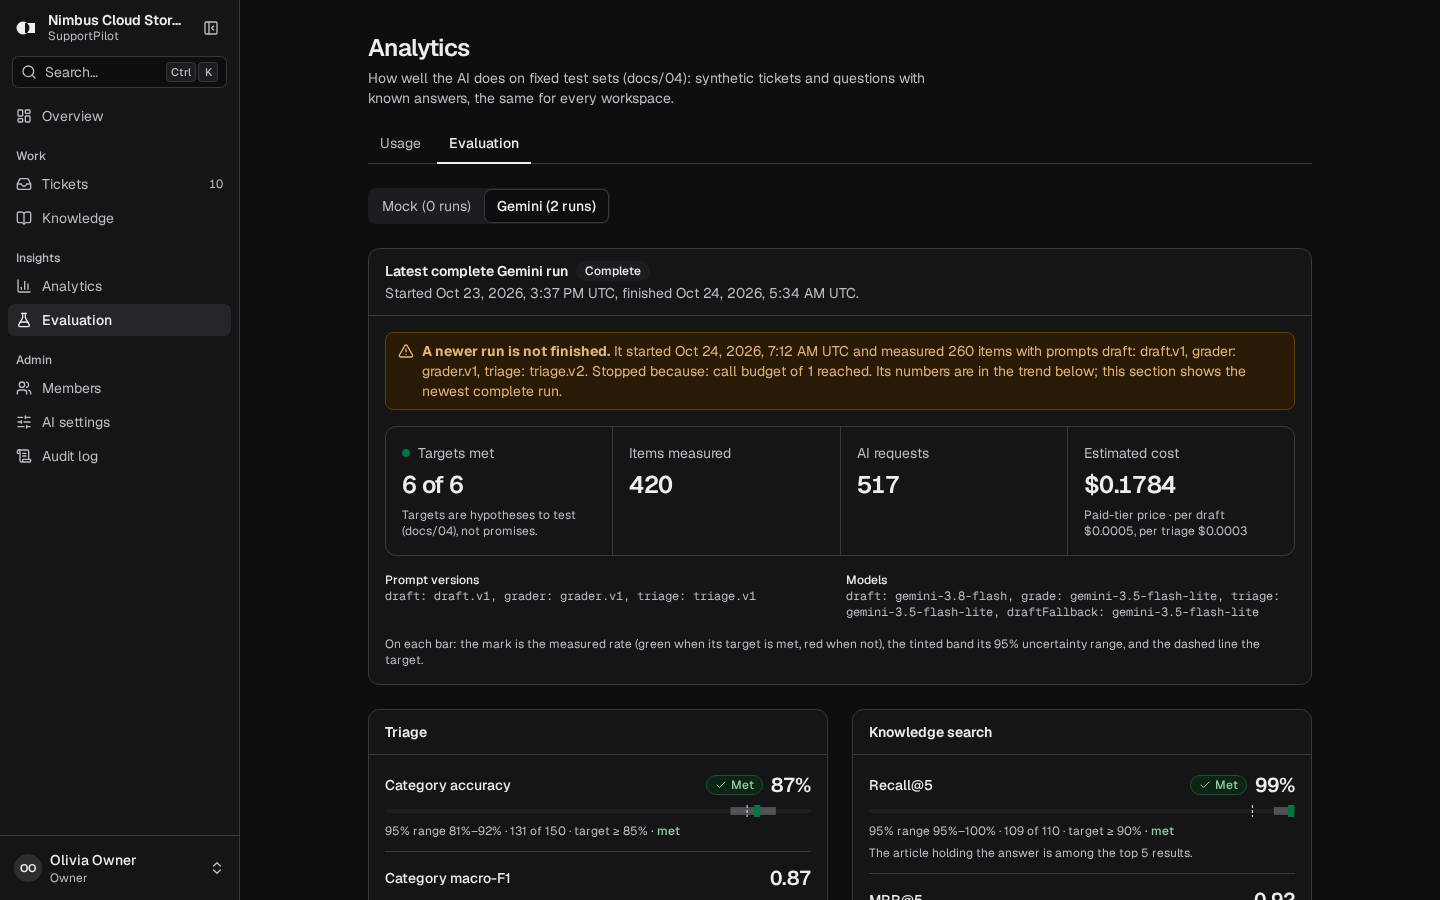
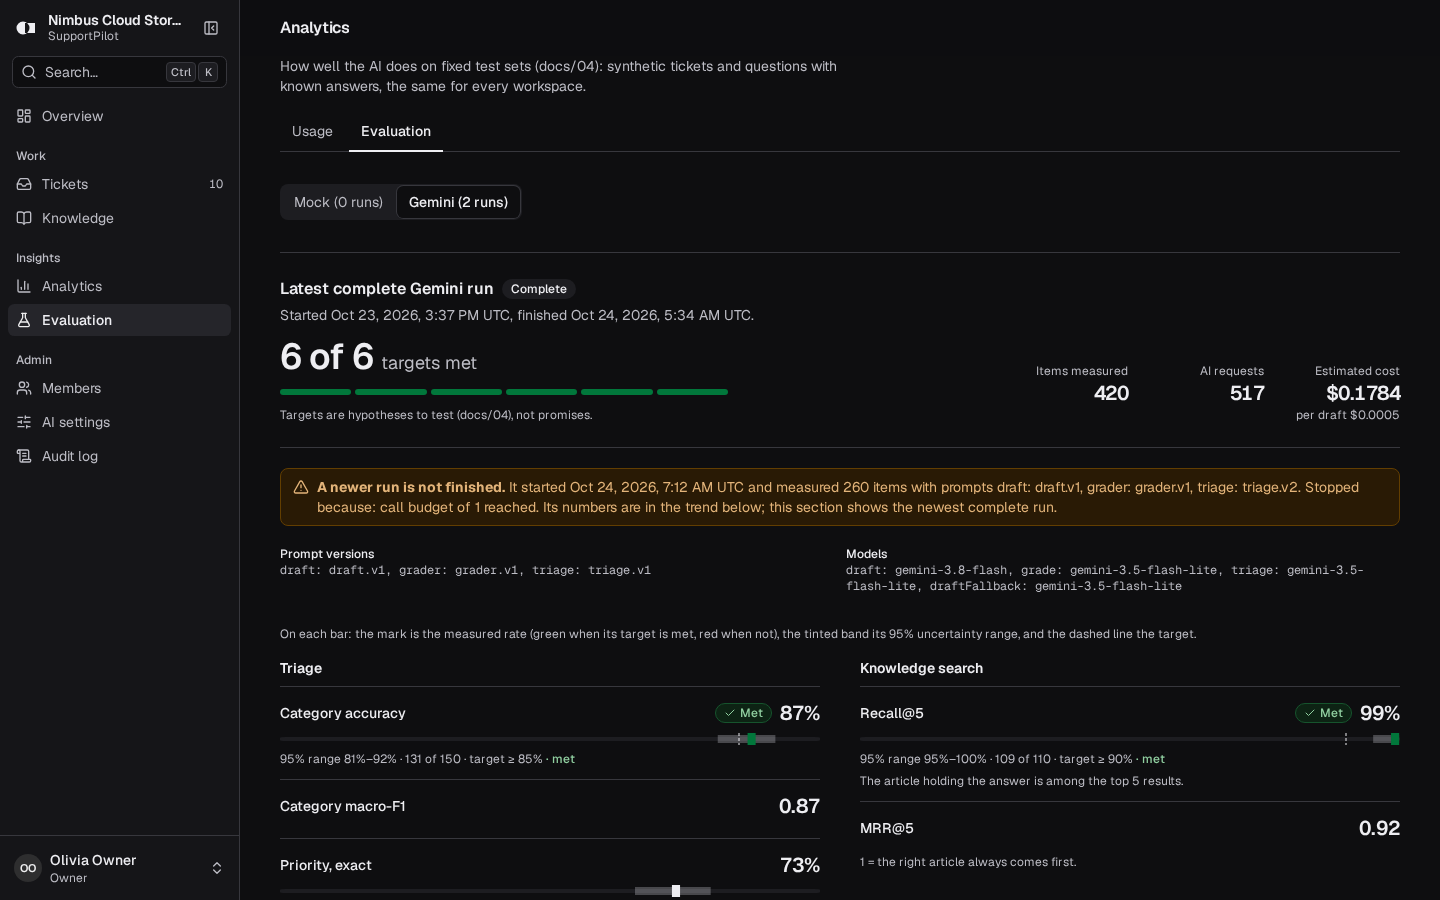
Design 10.6: README and design docs updated, new screenshots (overview, sign-in, analytics, evaluation, landing, palette), sign-in visual baselines

diff --git a/docs/plans/premium-polish.md b/docs/plans/premium-polish.md
@@ -1,6 +1,10 @@
 # Design step 10: premium polish (hero motion, glass, dashboards, sign-in)
 
-Status: proposed, waiting for approval. Design step 9.6 (finish) moves to the end of this plan.
+Status: done (2026-10-24), committed locally, not pushed yet. Verified on a production build:
+full E2E 104 passed, 8 skipped, then the 3 failures (landing header contrast, two sign-in
+baselines) fixed and their specs re-run (57 passed); unit 1,287 passed; Lighthouse landing
+mobile 91/82/87 performance (100 for accessibility, best practices, SEO), desktop 100 on every
+category; gitleaks clean.
 
 ## What the user asked for (2026-10-24)
 
@@ -14,14 +18,14 @@ Status: proposed, waiting for approval. Design step 9.6 (finish) moves to the en
 
 Measured in a real browser (computed styles, element counts), not guessed.
 
-| Product | Hero | How it moves | Blur ("glass") |
-| --- | --- | --- | --- |
-| Linear | Left-aligned headline over the app | 83 running animations; words arrive blur-to-sharp | Header `blur(20px)` on a transparent background |
-| Vercel | Headline beside a glowing prism | WebGL `<canvas>` (1080×720) reacting to the cursor | none in the hero |
-| Resend | Serif headline beside a 3D cube | `<canvas>` (648×550), cube follows the cursor | Buttons `blur(25px)` |
-| Plain | Centred headline over the app, grid lines | Light; animated counter ("Tools add 8 distance") | Panels `blur(6px)` on 92% white |
-| Attio | Centred headline over the app | 15 animations | Menus `blur(24px)` on 95% white; panels `blur(12px)` |
-| Clerk | Headline over a live sign-in component | `<canvas>`, 5 animations | Stacked `blur(1–4px)` layers (progressive blur) |
+| Product | Hero                                      | How it moves                                       | Blur ("glass")                                       |
+| ------- | ----------------------------------------- | -------------------------------------------------- | ---------------------------------------------------- |
+| Linear  | Left-aligned headline over the app        | 83 running animations; words arrive blur-to-sharp  | Header `blur(20px)` on a transparent background      |
+| Vercel  | Headline beside a glowing prism           | WebGL `<canvas>` (1080×720) reacting to the cursor | none in the hero                                     |
+| Resend  | Serif headline beside a 3D cube           | `<canvas>` (648×550), cube follows the cursor      | Buttons `blur(25px)`                                 |
+| Plain   | Centred headline over the app, grid lines | Light; animated counter ("Tools add 8 distance")   | Panels `blur(6px)` on 92% white                      |
+| Attio   | Centred headline over the app             | 15 animations                                      | Menus `blur(24px)` on 95% white; panels `blur(12px)` |
+| Clerk   | Headline over a live sign-in component    | `<canvas>`, 5 animations                           | Stacked `blur(1–4px)` layers (progressive blur)      |
 
 Sign-in pages (Linear, Vercel, Resend, Plain, Attio, Clerk): **all six** use one narrow centred
 column (logo, one heading, the fields). **None** shows a product demo beside the form. The
@@ -36,13 +40,16 @@ boxes of equal weight, boxes inside boxes, small charts, and fine print everywhe
 ## The plan: 6 steps, each tested and committed on its own
 
 ### 10.1 Glass, used the way these products use it
+
 Frosted, see-through surfaces only where something floats over content: the landing header,
 the app's page bar, menus, the command palette, dialogs, toasts and the mobile drawer.
+
 - `backdrop-filter: blur(16–24px) saturate(1.4)` on 70–85% backgrounds, a hairline border, a soft shadow.
 - Browsers without blur get a solid background (`@supports`), so text contrast never depends on it.
 - Not on ordinary cards. Frosted cards everywhere is a known "template" tell; the products above don't do it.
 
 ### 10.2 A living hero, and headings that arrive
+
 - **Interactive background:** a field of dots on the grid, drawn on a `<canvas>` by about 3 KB of
   our own code. Near the cursor the dots brighten and lift, like a spotlight. Faint lights travel
   along the grid lines, toward the product demo. On phones it drifts gently by itself.
@@ -54,6 +61,7 @@ the app's page bar, menus, the command palette, dialogs, toasts and the mobile d
   shows a still picture; keyboard and screen readers are unaffected (decorative, hidden).
 
 ### 10.3 Sign-in and sign-up like Linear, Vercel and Plain
+
 - One narrow centred column: logo, one heading, the fields; a frosted card over a quiet,
   slowly moving version of the hero background.
 - The demo panel beside the form goes. The live demo stays on the landing page.
@@ -61,6 +69,7 @@ the app's page bar, menus, the command palette, dialogs, toasts and the mobile d
 - No "Continue with Google" buttons: the app doesn't support them, so showing them would be dishonest.
 
 ### 10.4 Overview, rebuilt like Stripe's home
+
 - Uses the full width.
 - "Good evening, Olivia" plus a **Today** row: one large chart of new requests (today against
   the last 14 days), with 3 key numbers beside it.
@@ -69,6 +78,7 @@ the app's page bar, menus, the command palette, dialogs, toasts and the mobile d
 - **Recent activity:** a quiet feed. No boxes inside boxes.
 
 ### 10.5 Analytics and Evaluation, rebuilt like Vercel Analytics
+
 - **Analytics:** big numbers across the top (Tickets, Draft acceptance, AI tokens, Cost), each
   with the change from the previous period. Clicking one switches **one large chart** below.
   Hovering (or using the arrow keys) shows the exact value for each day. Below it, ranked lists
@@ -79,15 +89,18 @@ the app's page bar, menus, the command palette, dialogs, toasts and the mobile d
 - The charts don't animate (an earlier rule). They're drawn as our own SVG, with no chart library.
 
 ### 10.6 Finish (was step 9.6)
+
 Fresh screenshots, README update, all test suites, Lighthouse (phone at least 83, desktop 100),
 secret scan. Then push when you say.
 
 ## Rules that stay
+
 No new dependencies; strict security policy (CSP); honest copy and numbers only from the real
 evaluation; zero accessibility violations in light and dark; reduced motion respected; existing
 test selectors kept; no backend changes (if one turns out to be needed, I ask first).
 
 ## Risks
+
 - The canvas costs some phone page-speed. It starts only after the page is idle, and drops to
   fewer dots on phones. If the phone score falls below 83 I scale it back.
 - Blur is expensive on low-end phones. It's limited to small floating surfaces, never a full-screen layer.

diff --git a/docs/design/public-pages.md b/docs/design/public-pages.md
@@ -1,43 +1,49 @@
 # Public pages
 
-Design system step 5 (`docs/plans/design-system.md` §7): the landing page, sign-in and sign-up,
+Design system step 5 (`docs/plans/design-system.md` §7), revised in design step 10
+(`docs/plans/premium-polish.md`): the landing page, sign-in and sign-up,
 workspace setup, invitations, the customer portal, the private tracking page and the 404 page.
 
 ## Inspiration, and what was not copied
 
-- **Linear**: one headline and one supporting line; the product shown as real interface fragments
-  rather than a screenshot or an illustration.
-- **Plain**: small capital section labels, one plain heading and one paragraph per section.
-- **Vercel (Geist)**: split sign-in layout, forms on the page rather than inside a card.
+Measured on the live sites (October 2026) before each change; ideas were adapted, nothing copied.
+
+- **Linear**: a left-aligned headline whose words arrive blur-to-sharp, over the working product;
+  a translucent, blurred header.
+- **Vercel / Clerk / Resend**: a living background behind the hero (they use WebGL or canvas; ours
+  is a 2D canvas dot field). Sign-in as one narrow, centred column.
+- **Plain / Attio**: frosted (blurred, translucent) panels and menus, used where something floats
+  over content.
 - **Intercom / hosted help centres**: the customer portal carries the support team's name, with
   "Powered by" in the footer.
 
-Not copied: customer logos, testimonials, invented numbers, decorative grids or gradients, window
-"traffic light" dots, or any third-party asset. The logo is an original SVG (a reply bubble with a
-check, for "a reply a person approved").
+Not copied: customer logos, testimonials, invented numbers, third-party assets or paid fonts. The
+logo ("Handoff": a circle passing to a square) is an original SVG.
 
-## Landing page (`src/app/page.tsx`)
+## Landing page (`src/app/page.tsx`, `components/marketing/landing/`)
 
-- **Hero**: what the product does, then a muted second sentence for the human-approval rule. Calls
-  to action: create a workspace and read the code.
-- **Product preview** (`components/marketing/product-preview.tsx`): static HTML built from the
-  app's own tokens and labels, with demo content from the Nimbus help centre (the refund policy and
-  cancellation articles it cites exist in `eval/corpus/nimbus/`). It is `aria-hidden` and described
-  by a caption. It is HTML rather than an image because `next/image` adds inline styles, which the
-  CSP blocks.
-- **How it works**: four numbered steps (triage, retrieve, draft, approve).
-- **Evaluation**: four numbers from the latest Gemini run (`src/lib/landing.ts`), each with its
-  sample size and 95% confidence interval, and a note with the rest of the story (the refusal and
-  injection results, and that most drafts came from the fallback model). Source:
-  `docs/eval/m6-baseline.md`; update `landing.ts` when a new baseline is written.
-- **Engineering**: six claims, each one checkable in the repository. No test counts and no claim of
-  a finished security review.
+- **Hero**: the headline, word by word (blur to sharp, 300 ms each, staggered; no opacity change,
+  so the largest paint is not delayed). Behind it, `hero-field.tsx`: a canvas of dots on the
+  grid that brighten and lift around the pointer (a slow drift without one) and a few lights
+  travelling along the grid lines. It starts when the browser is idle, pauses off screen and in
+  background tabs, draws nothing with reduced motion, and is hidden from assistive technology.
+  Below it, `hero-live.tsx` plays the real inbox flow and lets the visitor take over.
+- **Sections** (how it works, guardrails, the customer's side, team tools, evaluation,
+  engineering): each a working fragment of the product rather than a screenshot. Section headings
+  sharpen from a blur as they scroll in; the main cards carry a soft light on the border that
+  follows the mouse (`spotlight.tsx`, mouse only).
+- **Evaluation numbers** come only from `src/lib/landing.ts` (the latest Gemini baseline,
+  `docs/eval/m6-baseline.md`), each with its sample size and 95% interval.
+- **Glass**: the header and floating panels use the `glass` / `glass-bar` utilities in
+  `globals.css` (translucent with a backdrop blur, solid where blur is unsupported). The header is
+  88% opaque so its links keep their contrast over light sections.
 
 ## Sign-in, sign-up, setup, invitations (`components/auth-shell.tsx`)
 
-The form on the left; on wide screens a muted panel with a compact product preview and one sentence
-("Every AI reply cites its sources and waits for a person's approval"). Workspace setup shows the
-portal address as you type the workspace address, and who is signed in.
+One narrow, centred column on a frosted card, over a quiet version of the landing page's dot field
+(no travelling lights). On a phone the card frame is dropped and the form uses the full width. No
+demo or marketing beside the form, as on Linear, Vercel, Resend, Plain, Attio and Clerk. Workspace
+setup shows the portal address as you type the workspace address, and who is signed in.
 
 ## Customer portal and tracking page (`components/portal/portal-frame.tsx`)
 

diff --git a/README.md b/README.md
@@ -56,6 +56,8 @@ AI-assisted customer support. SupportPilot triages new tickets and drafts replie
 | Agent inbox                                                        | Inbox, dark theme                                                     |
 | ------------------------------------------------------------------ | --------------------------------------------------------------------- |
 | ![Agent inbox](docs/screenshots/app/inbox-light.png)               | ![Agent inbox in the dark theme](docs/screenshots/app/inbox-dark.png) |
+| **Overview: today's requests, what needs you, recent activity**    | **Sign-in**                                                           |
+| ![Overview](docs/screenshots/app/overview-light.png)               | ![Sign-in](docs/screenshots/app/sign-in-light.png)                    |
 | **Triage applied automatically (confidence 97%)**                  | **Ticket with a cited draft, dark theme**                             |
 | ![Triage applied](docs/screenshots/app/ticket-applied-light.png)   | ![Ticket in the dark theme](docs/screenshots/app/ticket-dark.png)     |
 | **Evaluation dashboard (real Gemini run)**                         | **Usage analytics**                                                   |
